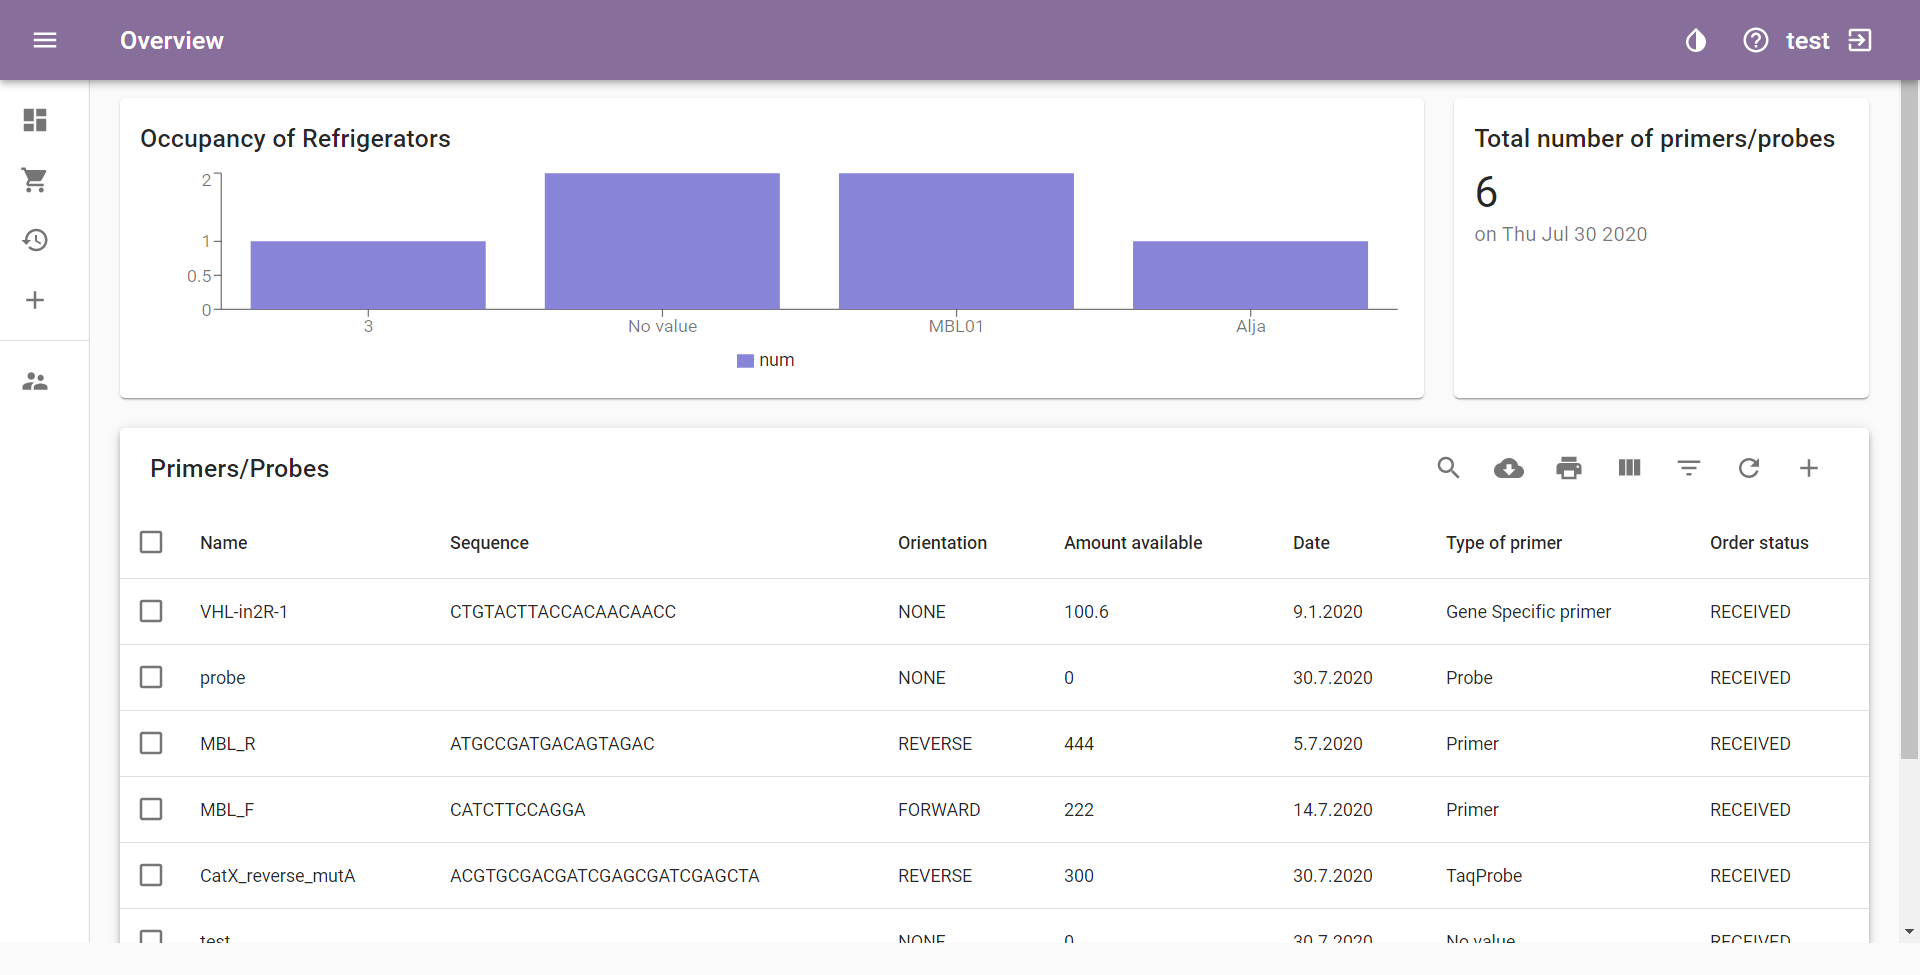
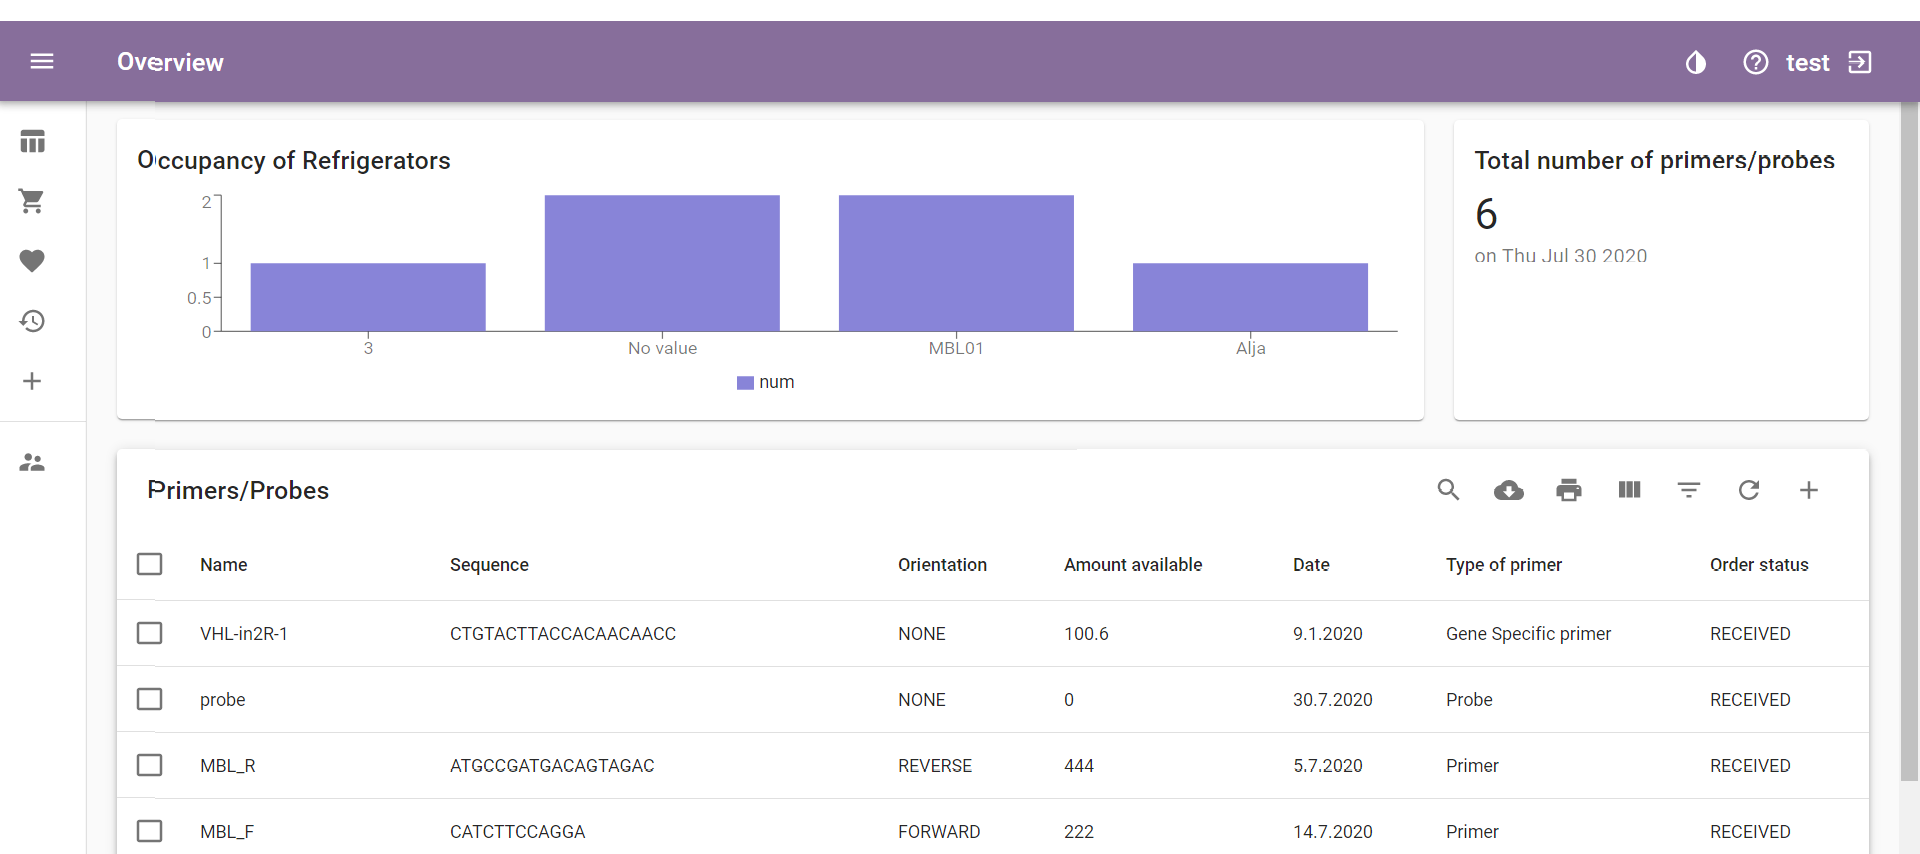
dodala opis favourites, posodobila sliko

diff --git a/docs/index.md b/docs/index.md
@@ -23,7 +23,7 @@ Good documentation constitutes an essential part of the quality assurance system
 
 ### User Access Control
 
-A new user is created by the Administrator, who also provides their username and password, which can be changed by the user. New users can also log in with an already existing email. The Administrator sets the user's role and their level of access.
+A new user is created by the Administrator, who also provides their username and password, which can be changed if forgotten. New users can also log in with an already existing email. The Administrator sets the user's role and their level of access.
 
 Different users have different roles in the repository, which controls their access to information or modifying of data. The roles in an ascending order of access are:
 
@@ -87,6 +87,7 @@ Icons on the left show (in a descending order):
 
 * Overview, the main page showing primer data
 * Orders, where recent and pending orders can be viewed
+* Favourites, where the user can save their most used primers
 * History, which shows a timeline of all changes made by the users (view limited only to specific users, described in the User Access Control section)
 * Add primer / probe, a page for adding primers with no obligatory fields
 
@@ -279,6 +280,8 @@ When an order has arrived, the primer can be moved to the primers repository by 
 ![MoveToPrimers](./MoveToPrimers.png)
 
 After submitting the data, the primer appears in the library on the “Overview” page.
+
+Orders or wanted primers can be edited in the same way as primer data in the library, by clicking on the row with the primer and clicking on the edit icon (follow the instructions in the Editing Primer Data section).
 
 ## History View
 
